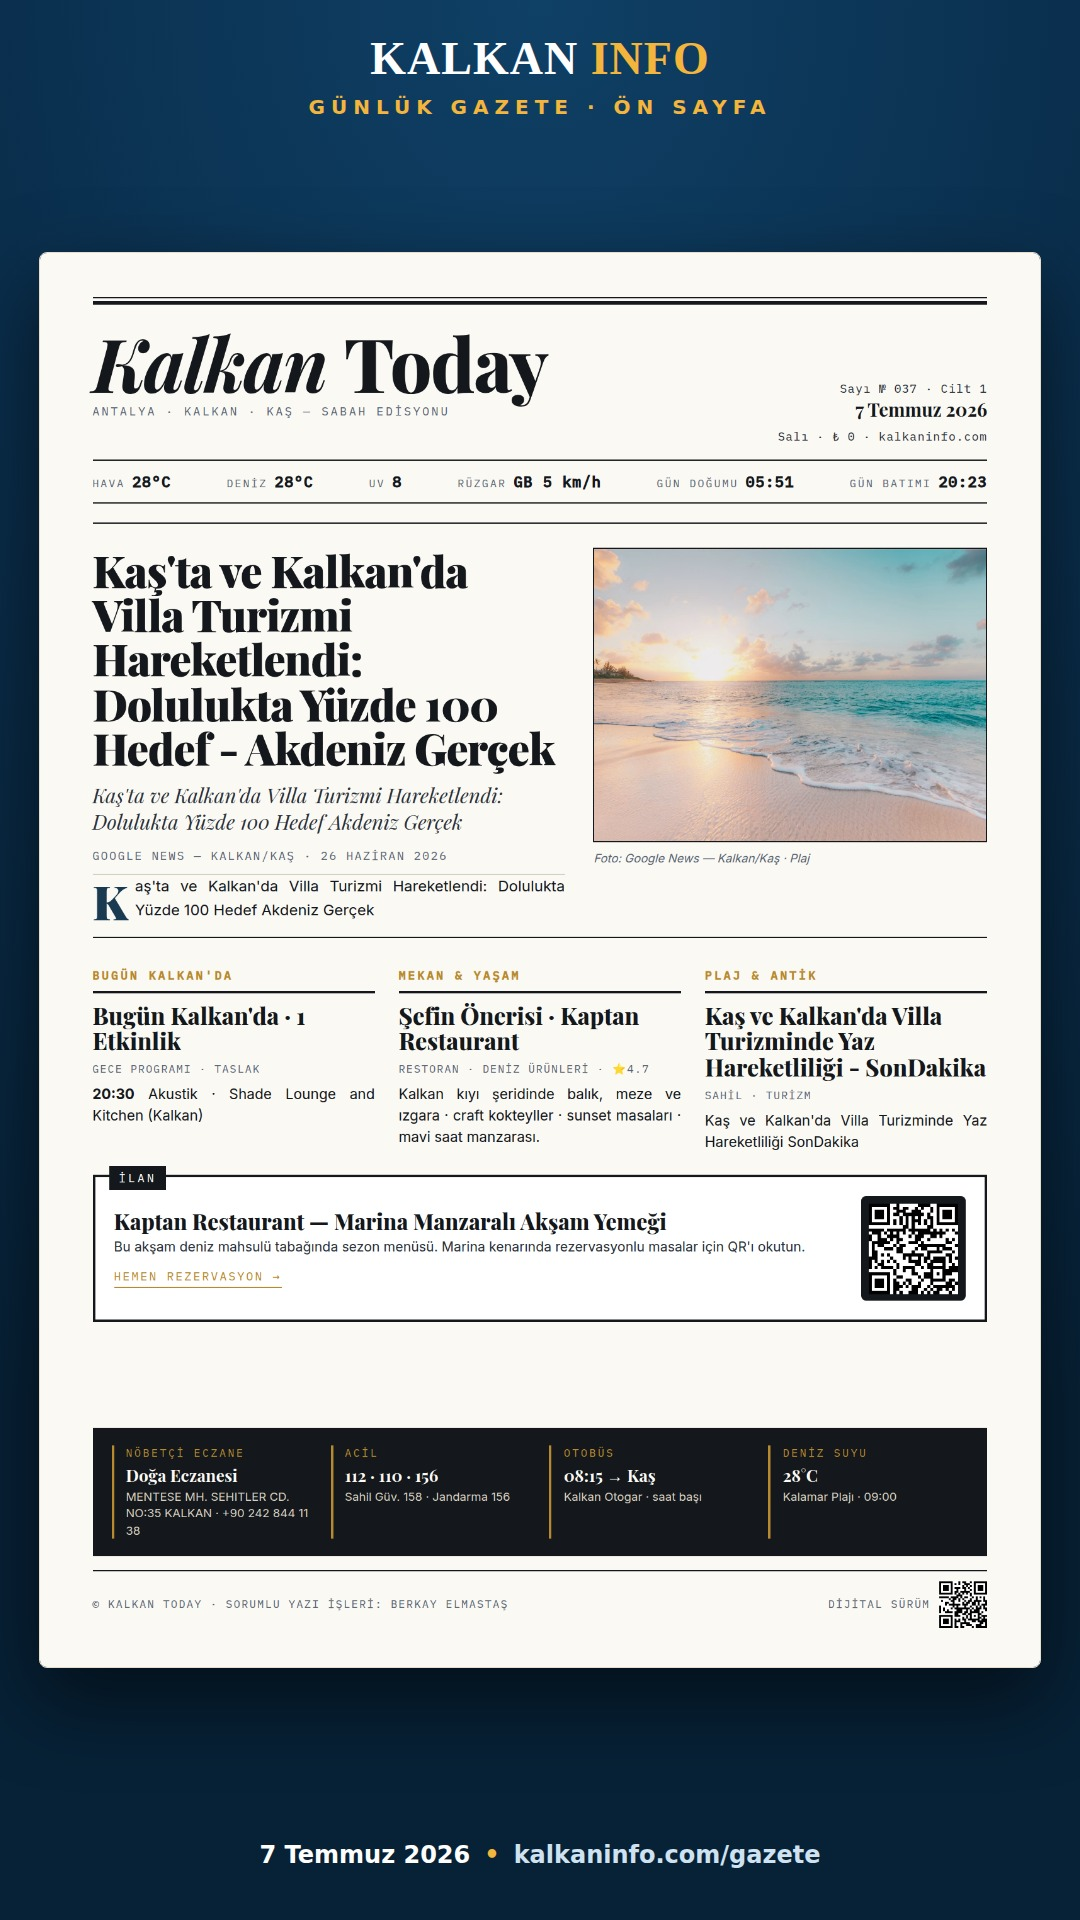
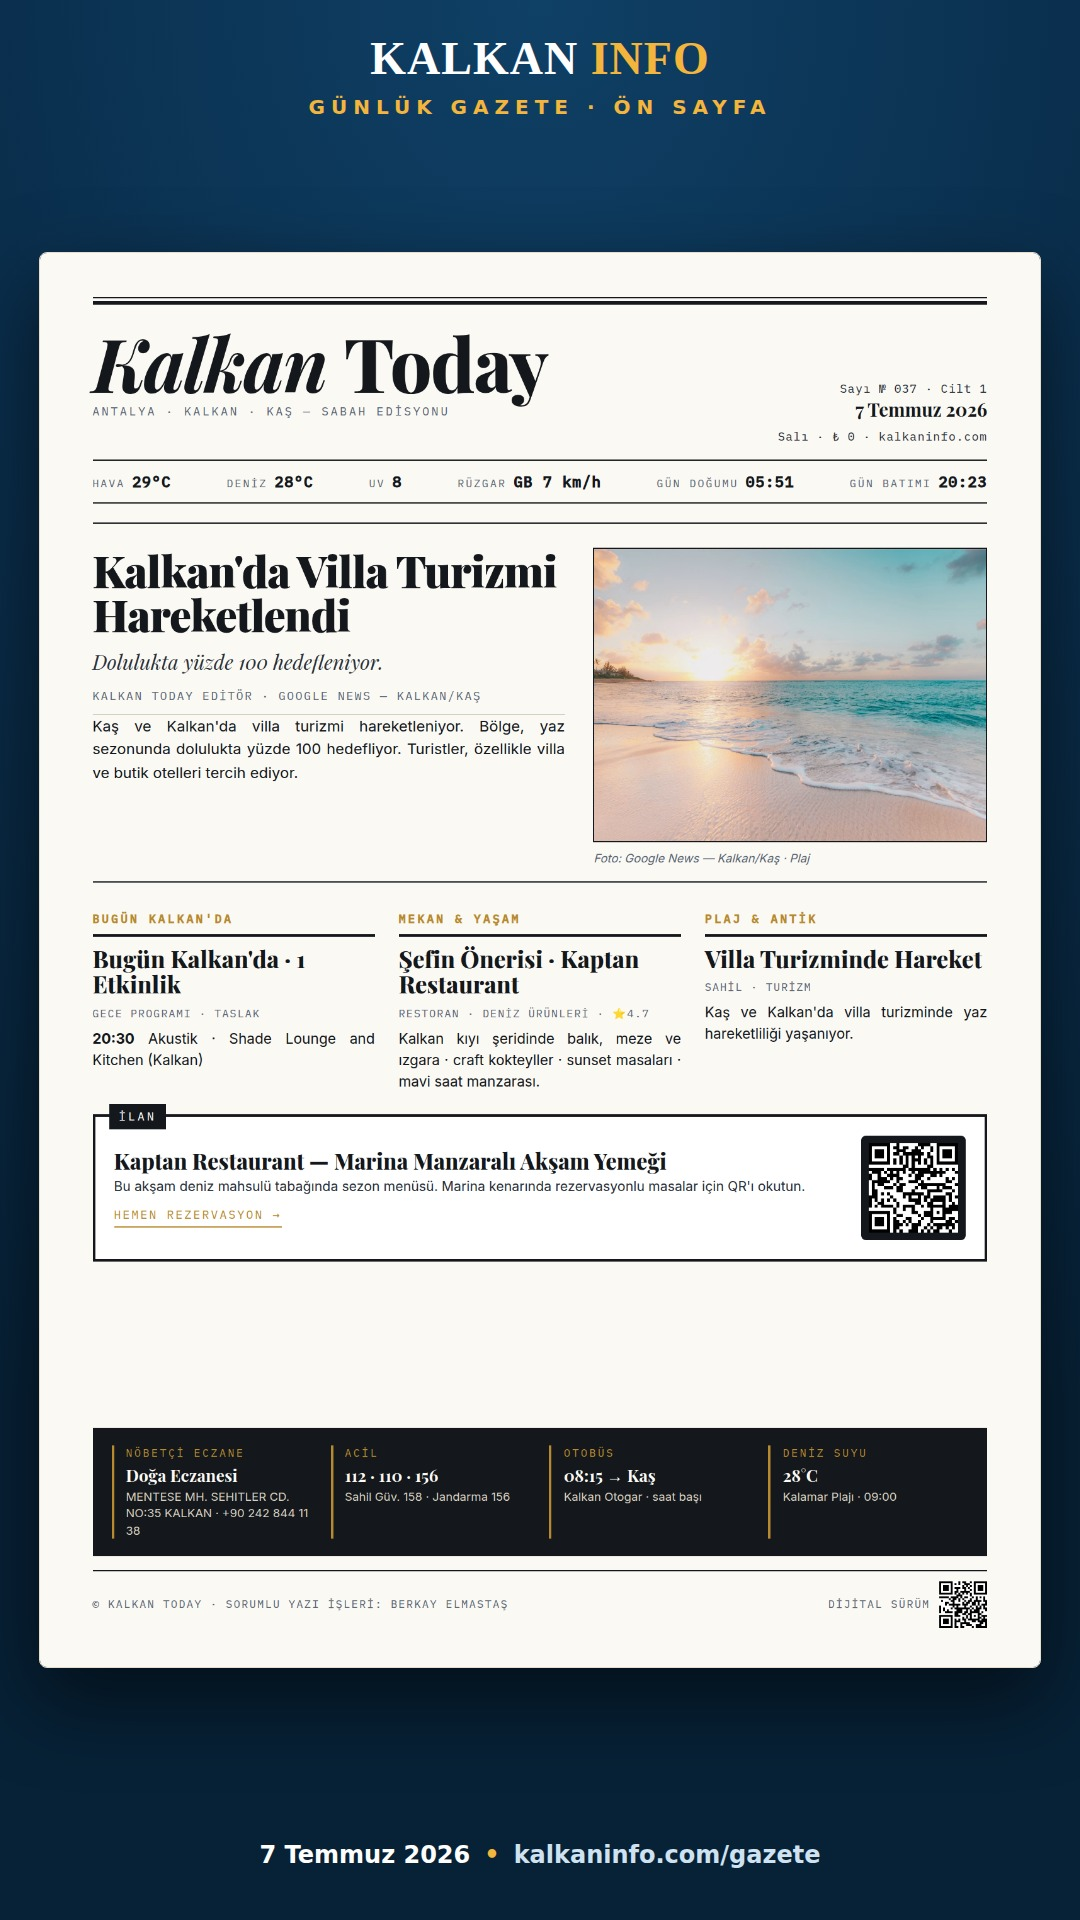
content(gazete): günlük sayı 2026-07-07 [auto]

Changed region(s): [[0.0611, 0.2812, 0.9167, 0.6875]]

diff --git a/newspaper/archive/2026-07-07/morning.html b/newspaper/archive/2026-07-07/morning.html
@@ -339,10 +339,10 @@
       </div>
     </div>
     <div class="weather-strip">
-      <div class="item"><span class="lbl">Hava</span><span class="val">28°C</span></div>
+      <div class="item"><span class="lbl">Hava</span><span class="val">29°C</span></div>
       <div class="item"><span class="lbl">Deniz</span><span class="val">28°C</span></div>
       <div class="item"><span class="lbl">UV</span><span class="val">8</span></div>
-      <div class="item"><span class="lbl">Rüzgar</span><span class="val">GB 5 km/h</span></div>
+      <div class="item"><span class="lbl">Rüzgar</span><span class="val">GB 7 km/h</span></div>
       <div class="item"><span class="lbl">Gün Doğumu</span><span class="val">05:51</span></div>
       <div class="item"><span class="lbl">Gün Batımı</span><span class="val">20:23</span></div>
     </div>
@@ -351,11 +351,11 @@
   <!-- ═══ LEAD STORY ═══ -->
   <section class="lead">
     <div>
-      <h1 class="lead-headline">Kaş'ta ve Kalkan'da Villa Turizmi Hareketlendi: Dolulukta Yüzde 100 Hedef - Akdeniz Gerçek</h1>
-      <p class="lead-deck">Kaş'ta ve Kalkan'da Villa Turizmi Hareketlendi: Dolulukta Yüzde 100 Hedef Akdeniz Gerçek</p>
-      <div class="lead-byline">Google News — Kalkan/Kaş · 26 Haziran 2026</div>
+      <h1 class="lead-headline">Kalkan'da Villa Turizmi Hareketlendi</h1>
+      <p class="lead-deck">Dolulukta yüzde 100 hedefleniyor.</p>
+      <div class="lead-byline">Kalkan Today Editör · Google News — Kalkan/Kaş</div>
       <div class="lead-body">
-        <p>Kaş'ta ve Kalkan'da Villa Turizmi Hareketlendi: Dolulukta Yüzde 100 Hedef Akdeniz Gerçek</p>
+        Kaş ve Kalkan'da villa turizmi hareketleniyor. Bölge, yaz sezonunda dolulukta yüzde 100 hedefliyor. Turistler, özellikle villa ve butik otelleri tercih ediyor.
       </div>
     </div>
     <div>
@@ -382,9 +382,9 @@
 
     <article class="col">
       <h3 class="kicker">Plaj & Antik</h3>
-      <h2>Kaş ve Kalkan'da Villa Turizminde Yaz Hareketliliği - SonDakika</h2>
+      <h2>Villa Turizminde Hareket</h2>
       <div class="byline">Sahil · Turizm</div>
-      <p>Kaş ve Kalkan'da Villa Turizminde Yaz Hareketliliği SonDakika</p>
+      <p>Kaş ve Kalkan'da villa turizminde yaz hareketliliği yaşanıyor.</p>
     </article>
   </section>
 
